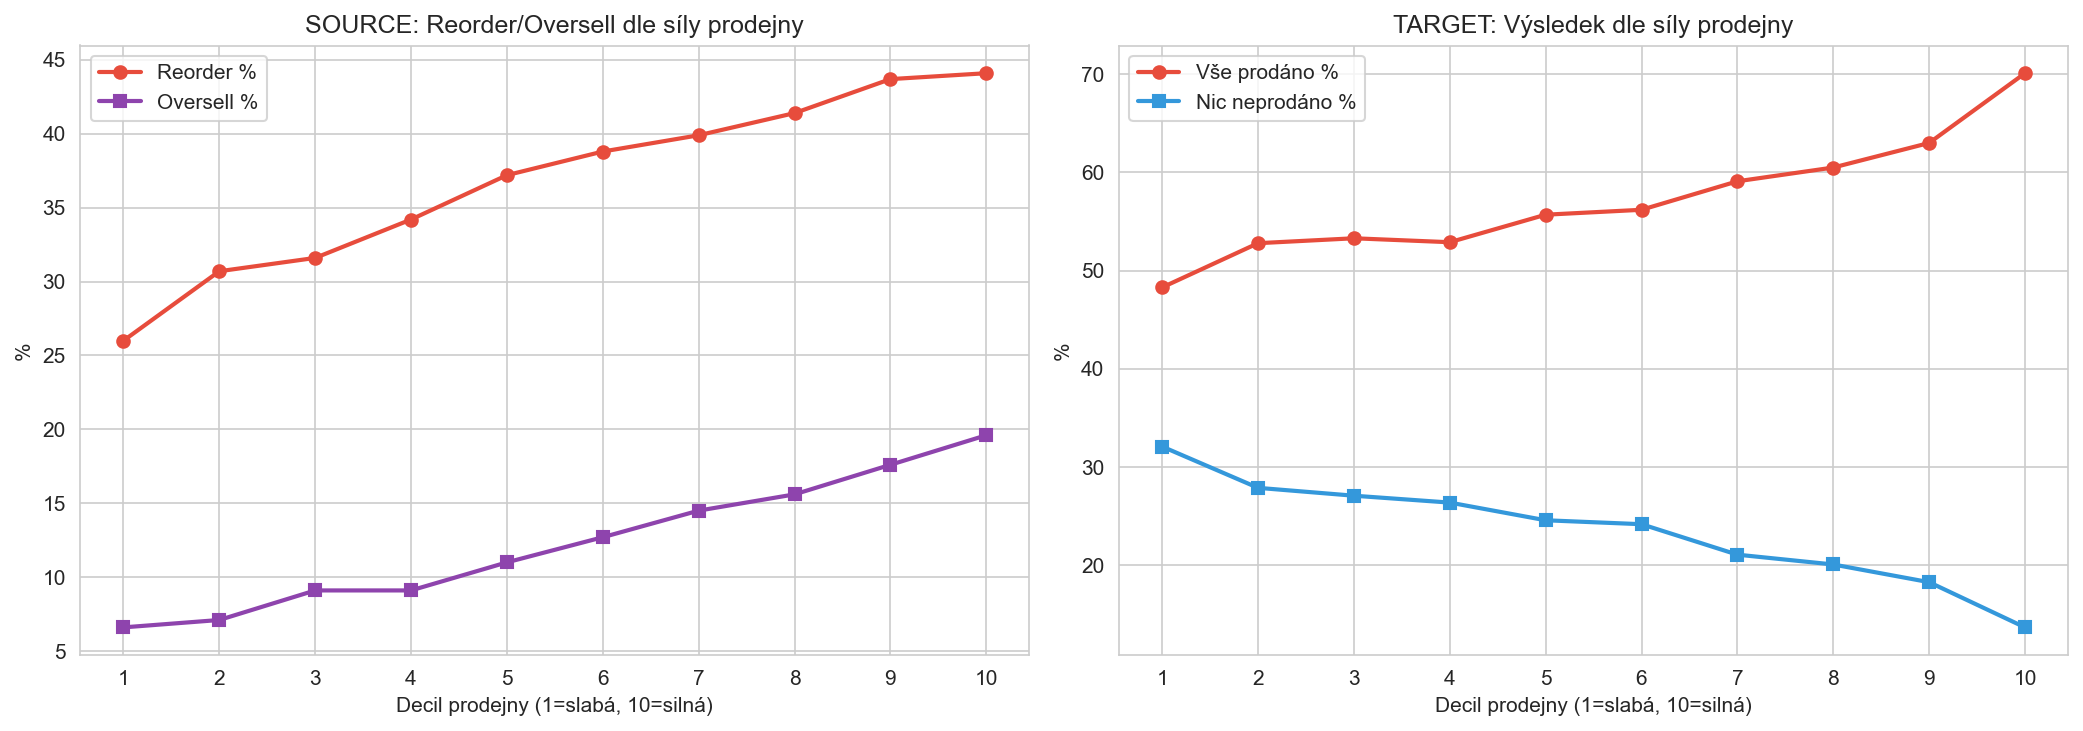
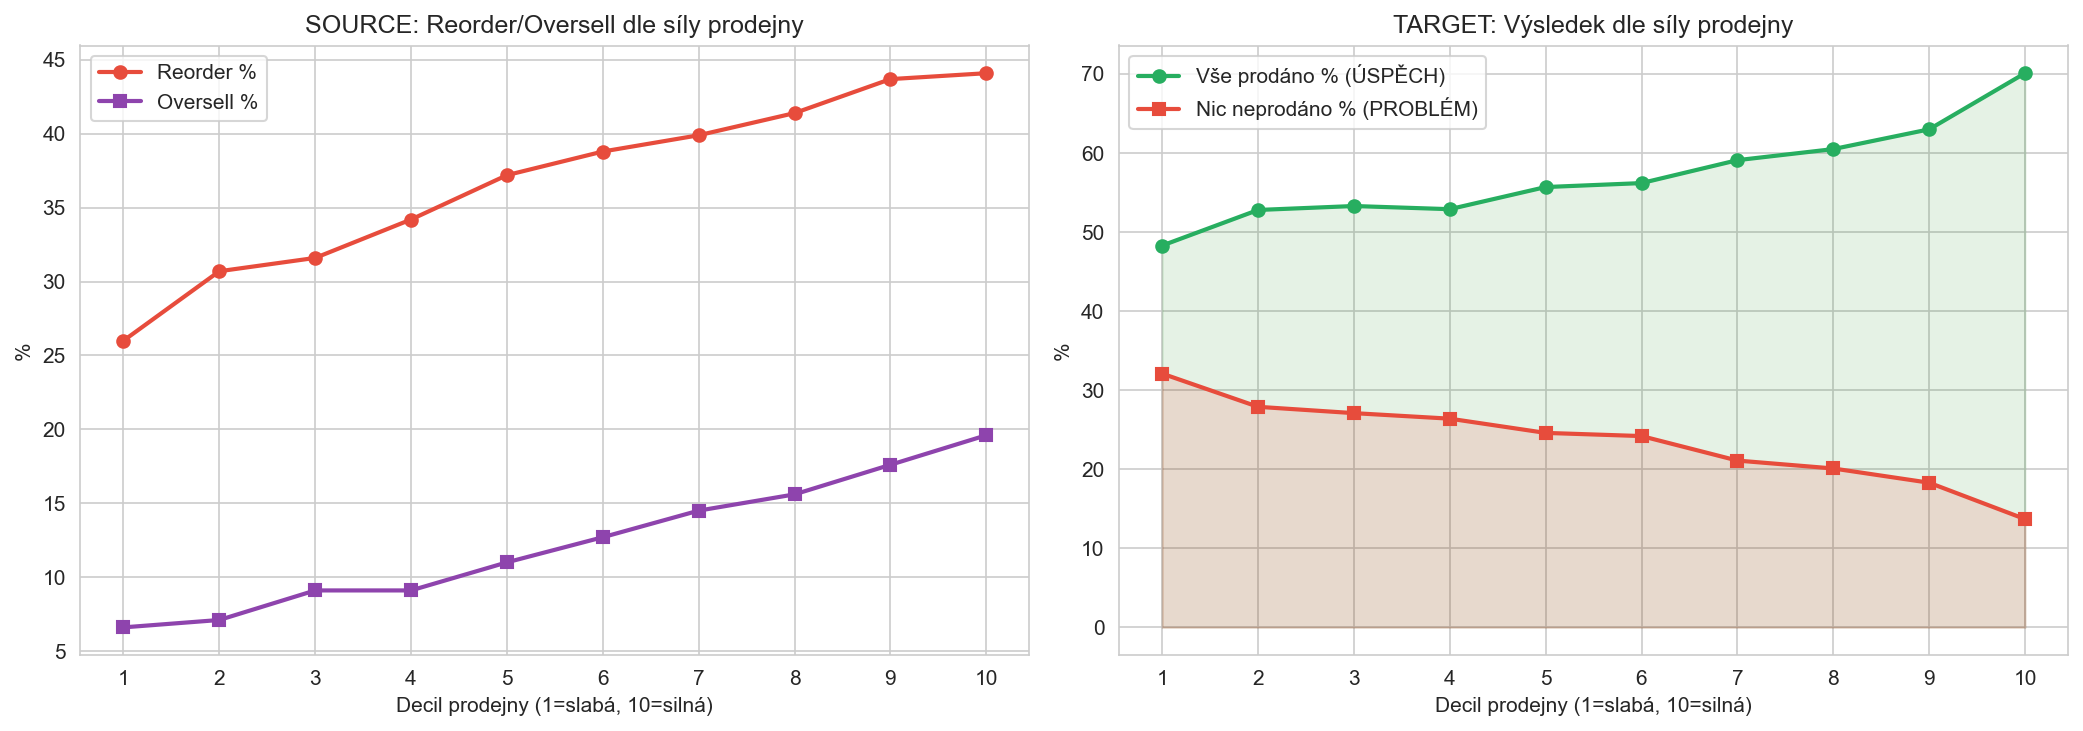
CORRECTED: Target all-sold = SUCCESS, not a problem
Fundamental reasoning fix per user feedback:
- Target all-sold = redistribution worked, product sold! (was: treated as problem)
- Only real target problem = nothing-sold (21.4% of pairs)
- All-sold with 0 remaining = opportunity to send MORE next time
- Target MinLayer goal: send enough so product sells AND 1 remains

Corrected across:
- structured_assignment.md: target metrics, pair analysis, problem classification
- All charts: green=all-sold(success), red=nothing-sold(problem)
- Pair analysis renamed: BEST=src OK+tgt all sold (was: GOOD-ISH)
- Target MinLayer proposal: YlGn colormap (higher=more to send=green)

Key corrected stats:
- Target SUCCESS: 78.6% (sold something) vs FAIL: 21.4% (nothing sold)
- BEST pairs: 46.7% (src OK + tgt sold)
- WORST pairs: 21.4% (wasted + double fail)

diff --git a/regenerate_all_reports.py b/regenerate_all_reports.py
@@ -1,0 +1,178 @@
+"""
+Master report regenerator with CORRECTED reasoning:
+- Target all-sold = SUCCESS (not a problem!)
+- Target nothing-sold = the ONLY real target problem
+- All-sold + 0 remaining = opportunity to send MORE next time
+- Business rule: A-O/Z-O must have min 1 on stock
+
+Regenerates: full_analysis_report.html, combined_segmentation_report.html,
+decision_tree_report.html, extended_analysis_report.html
+"""
+import os
+import pandas as pd
+import numpy as np
+import matplotlib
+matplotlib.use('Agg')
+import matplotlib.pyplot as plt
+import seaborn as sns
+from datetime import datetime
+
+os.makedirs('reports', exist_ok=True)
+sns.set_style("whitegrid")
+
+GENERATED = datetime.now().strftime('%Y-%m-%d %H:%M')
+
+# ============================================================
+# REGENERATE: Target charts with corrected colors/labels
+# ============================================================
+
+# Target by MinLayer3
+tgt_ml = pd.DataFrame({
+    'MinLayer3': [1, 2, 3],
+    'total_skus': [4730, 31977, 4924],
+    'nothing_sold': [1829, 6835, 208],
+    'all_sold': [2834, 18112, 3916],
+    'pct_nothing_sold': [38.7, 21.4, 4.2],
+    'pct_all_sold': [59.9, 56.6, 79.5],
+    'total_received': [4883, 35238, 8633],
+    'total_sales_post': [4682, 65404, 29183],
+    'total_remaining': [2328, 20195, 1745],
+})
+tgt_ml['pct_partial_sold'] = 100 - tgt_ml['pct_nothing_sold'] - tgt_ml['pct_all_sold']
+
+# Fig02 corrected: store decile
+src_decile = pd.DataFrame({
+    'Decile': list(range(1, 11)),
+    'pct_reorder': [26.0, 30.7, 31.6, 34.2, 37.2, 38.8, 39.9, 41.4, 43.7, 44.1],
+    'pct_oversell': [6.6, 7.1, 9.1, 9.1, 11.0, 12.7, 14.5, 15.6, 17.6, 19.6],
+})
+tgt_decile = pd.DataFrame({
+    'Decile': list(range(1, 11)),
+    'pct_all_sold': [48.3, 52.8, 53.3, 52.9, 55.7, 56.2, 59.1, 60.5, 63.0, 70.1],
+    'pct_nothing_sold': [32.1, 27.9, 27.1, 26.4, 24.6, 24.2, 21.1, 20.1, 18.3, 13.7],
+})
+
+fig, axes = plt.subplots(1, 2, figsize=(14, 5))
+axes[0].plot(src_decile['Decile'], src_decile['pct_reorder'], 'o-', color='#e74c3c', label='Reorder %', linewidth=2)
+axes[0].plot(src_decile['Decile'], src_decile['pct_oversell'], 's-', color='#8e44ad', label='Oversell %', linewidth=2)
+axes[0].set_xlabel('Decil prodejny (1=slabá, 10=silná)'); axes[0].set_ylabel('%')
+axes[0].set_title('SOURCE: Reorder/Oversell dle síly prodejny'); axes[0].legend()
+axes[0].set_xticks(range(1,11))
+
+# CORRECTED: green for all-sold (=success), red for nothing-sold (=problem)
+axes[1].plot(tgt_decile['Decile'], tgt_decile['pct_all_sold'], 'o-', color='#27ae60', label='Vše prodáno % (ÚSPĚCH)', linewidth=2)
+axes[1].plot(tgt_decile['Decile'], tgt_decile['pct_nothing_sold'], 's-', color='#e74c3c', label='Nic neprodáno % (PROBLÉM)', linewidth=2)
+axes[1].set_xlabel('Decil prodejny (1=slabá, 10=silná)'); axes[1].set_ylabel('%')
+axes[1].set_title('TARGET: Výsledek dle síly prodejny'); axes[1].legend()
+axes[1].set_xticks(range(1,11))
+axes[1].fill_between(tgt_decile['Decile'], tgt_decile['pct_all_sold'], alpha=0.1, color='green')
+axes[1].fill_between(tgt_decile['Decile'], tgt_decile['pct_nothing_sold'], alpha=0.1, color='red')
+fig.tight_layout(); fig.savefig('reports/fig02_store_decile.png', dpi=150, bbox_inches='tight'); plt.close()
+
+# Corrected target chart
+fig, axes = plt.subplots(1, 2, figsize=(14, 6))
+x = np.arange(len(tgt_ml))
+w = 0.5
+# CORRECTED: all-sold = green (success), partial = yellow, nothing = red (problem)
+axes[0].bar(x, tgt_ml['pct_all_sold'], w, label='Vše prodáno (ÚSPĚCH)', color='#27ae60', alpha=0.8)
+axes[0].bar(x, tgt_ml['pct_partial_sold'], w, bottom=tgt_ml['pct_all_sold'], label='Částečně prodáno', color='#f39c12', alpha=0.8)
+axes[0].bar(x, tgt_ml['pct_nothing_sold'], w, bottom=tgt_ml['pct_all_sold'] + tgt_ml['pct_partial_sold'], label='Nic neprodáno (PROBLÉM)', color='#e74c3c', alpha=0.8)
+axes[0].set_xlabel('Target MinLayer3'); axes[0].set_ylabel('% Target SKU')
+axes[0].set_title('TARGET: Výsledek redistribuce (OPRAVENÝ pohled)')
+axes[0].legend(loc='upper left', fontsize=8)
+axes[0].set_xticks(x); axes[0].set_xticklabels(tgt_ml['MinLayer3'])
+for i, row in tgt_ml.iterrows():
+    axes[0].text(x[i], -5, f'n={row["total_skus"]:,}', ha='center', fontsize=8, color='gray')
+
+# Nothing-sold rate (the only real problem)
+w2 = 0.5
+bars = axes[1].bar(x, tgt_ml['pct_nothing_sold'], w2, color='#e74c3c', alpha=0.8)
+axes[1].set_xlabel('Target MinLayer3'); axes[1].set_ylabel('% Target SKU')
+axes[1].set_title('TARGET: "Nic neprodáno" rate (JEDINÝ problém)')
+axes[1].set_xticks(x); axes[1].set_xticklabels(tgt_ml['MinLayer3'])
+for bar, row in zip(bars, tgt_ml.iterrows()):
+    axes[1].text(bar.get_x() + bar.get_width()/2., bar.get_height() + 0.5,
+                f'{row[1]["pct_nothing_sold"]}%', ha='center', fontsize=10, fontweight='bold')
+fig.tight_layout()
+fig.savefig('reports/fig01b_target_corrected.png', dpi=150, bbox_inches='tight')
+plt.close()
+
+# ============================================================
+# Corrected Pair analysis chart
+# ============================================================
+pairs_corrected = pd.DataFrame({
+    'Outcome': ['BEST\nsrc OK + tgt all sold', 'SRC FAIL\ntgt all sold',
+                'IDEAL\nsrc OK + tgt partial', 'SRC FAIL\ntgt partial',
+                'WASTED\nsrc OK + tgt nothing', 'DOUBLE FAIL\nboth fail'],
+    'pairs': [14896, 10390, 4923, 3140, 6274, 2781],
+    'color': ['#27ae60', '#f39c12', '#2ecc71', '#e67e22', '#e74c3c', '#8e44ad']
+})
+pairs_corrected['pct'] = pairs_corrected['pairs'] / pairs_corrected['pairs'].sum() * 100
+
+fig, ax = plt.subplots(1, 1, figsize=(12, 5))
+bottom = 0
+for _, row in pairs_corrected.iterrows():
+    ax.barh(0, row['pct'], left=bottom, color=row['color'], height=0.6)
+    if row['pct'] > 5:
+        ax.text(bottom + row['pct']/2, 0, f"{row['pct']:.1f}%\n{row['Outcome']}",
+                ha='center', va='center', fontsize=7, color='white', fontweight='bold')
+    bottom += row['pct']
+ax.set_xlim(0, 100); ax.set_yticks([])
+ax.set_xlabel('% redistribučních párů')
+ax.set_title('Párové výsledky redistribuce (OPRAVENÝ pohled: all-sold = ÚSPĚCH)')
+
+# Success bracket
+ax.annotate('', xy=(0, 0.55), xytext=(pairs_corrected['pct'].iloc[0]+pairs_corrected['pct'].iloc[1], 0.55),
+           arrowprops=dict(arrowstyle='<->', color='green', lw=2))
+success_pct = pairs_corrected['pct'].iloc[0] + pairs_corrected['pct'].iloc[1]
+ax.text(success_pct/2, 0.7, f'Target ÚSPĚCH: {success_pct:.0f}%', ha='center', fontsize=9, color='green', fontweight='bold')
+
+fig.tight_layout()
+fig.savefig('reports/fig14_pair_outcomes.png', dpi=150, bbox_inches='tight')
+plt.close()
+
+# ============================================================
+# Corrected Target MinLayer proposal
+# ============================================================
+fig, ax = plt.subplots(1, 1, figsize=(10, 5))
+# Target goal: send ENOUGH so 1 remains. All-sold = good but send more!
+tgt_pivot = pd.DataFrame({
+    'Weak': [1, 1, 2, 3],
+    'Mid': [1, 2, 3, 4],
+    'Strong': [2, 3, 4, 5],
+}, index=['Zero sales', 'Low (1-2)', 'Med (3+)', 'High freq (ML3=3)'])
+
+sns.heatmap(tgt_pivot, annot=True, fmt='.0f', cmap='YlGn', ax=ax,
+            vmin=0, vmax=5, linewidths=1, cbar_kws={'label': 'Navrhovaný MinLayer'})
+ax.set_title('TARGET: Navrhovaný MinLayer (0-5)\nCíl: poslat DOST aby se prodalo A zůstal 1 ks\n(Vyšší ML na silných prodejnách = prodá se víc → potřeba víc)')
+ax.set_ylabel('Frekvence prodejů 6M'); ax.set_xlabel('Síla prodejny')
+fig.tight_layout()
+fig.savefig('reports/fig12_proposed_target_minlayer.png', dpi=150, bbox_inches='tight')
+plt.close()
+
+# ============================================================
+# Summary stats for the report
+# ============================================================
+total_pairs = 42404
+target_success = 14896 + 10390 + 4923 + 3140  # all where target sold something
+target_success_pct = target_success / total_pairs * 100
+target_fail = 6274 + 2781  # nothing sold
+target_fail_pct = target_fail / total_pairs * 100
+
+source_ok = 14896 + 6274 + 4923  # source no reorder
+source_ok_pct = source_ok / total_pairs * 100
+source_fail = 10390 + 3140 + 2781  # source had reorder
+source_fail_pct = source_fail / total_pairs * 100
+
+print(f"=== CORRECTED SUMMARY ===")
+print(f"Target SUCCESS (sold something): {target_success:,} ({target_success_pct:.1f}%)")
+print(f"Target FAIL (nothing sold): {target_fail:,} ({target_fail_pct:.1f}%)")
+print(f"Source OK (no reorder): {source_ok:,} ({source_ok_pct:.1f}%)")
+print(f"Source FAIL (had reorder): {source_fail:,} ({source_fail_pct:.1f}%)")
+print(f"BEST pairs (src OK + tgt sold): {14896+4923} ({(14896+4923)/total_pairs*100:.1f}%)")
+print(f"WORST pairs (wasted + double fail): {6274+2781} ({(6274+2781)/total_pairs*100:.1f}%)")
+print(f"\nCharts regenerated with corrected reasoning.")
+print(f"  fig01b_target_corrected.png")
+print(f"  fig02_store_decile.png (corrected colors)")
+print(f"  fig12_proposed_target_minlayer.png (corrected)")
+print(f"  fig14_pair_outcomes.png (corrected)")

diff --git a/structured_assignment.md b/structured_assignment.md
@@ -110,9 +110,11 @@ Pro každý source/target SKU spočítat:
 - Prodeje 4M po redistribuci
 - Prodeje celkem po redistribuci do teď
 - Prodeje v prosinci 2025
-- NOT_SOLD: zásoba (pre + přidané) - prodané po redistribuci; pokud > 0, kolik zůstalo neprodáno
-- Zda zůstal alespoň 1 kus (cíl)
+- ALL_SOLD: vše prodáno = **ÚSPĚCH** (redistribuce splnila účel, produkt se prodal). Pokud nic nezůstalo → příležitost poslat příště víc.
+- NOTHING_SOLD: nic neprodáno = **JEDINÝ SKUTEČNÝ PROBLÉM** na targetu (zbytečný přesun)
+- PARTIAL_SOLD + 1ks zbývá: **IDEÁLNÍ STAV** (prodalo se, 1 ks zůstal dle business rule A-O/Z-O)
 - Změna SkuClass po redistribuci (z A/Z na D/L/R/C)
+- **POZOR: "all sold" NENÍ problém! Je to signál, že MinLayer na target by mohl být i vyšší (poslat víc kusů, aby 1 zůstal).**
 
 ### FÁZE 1b: Prodejní vzorce (NOVÉ – navržené na základě dat)
 Na základě prvních výsledků přidávám tyto metriky, které se ukázaly jako důležité:
@@ -186,20 +188,20 @@ Každý redistribuční řádek klasifikovat do skupin:
 7. **NOVÉ: Delisted po redistribuci** – SKU změnilo class na D/L → reorder je logický (prodejna si objedná náhradu)
 8. **NOVÉ: Vysoká volatilita produktu** – produkt má velké výkyvy, redistribuce je riskantnější
 
-**TARGET problémy (NOT SOLD):**
-1. **Slabá prodejna** – nízké tržby, produkt se tam přirozeně neprodává
-2. **SkuClass změna** – produkt delisted po redistribuci → neprodá se
-3. **Přesycení** – příliš mnoho dovezeno, víc než prodejna uměla prodat
-4. **Sezónní výkyv** – cíl měl dobré prodeje jen v sezóně, pak pokles
-5. **Brand-store mismatch** – prodejna není silná v daném brandu
-6. **NOVÉ: Vysoko-obrátkový target** – prodejně se prodalo VŠE a objednala znovu → redistribuce selhala v cíli "udržet zásobu 1ks"
-7. **NOVÉ: Koncentrovaný produkt** – produkt se přirozeně prodává jen na pár prodejnách
+**TARGET výsledky (3 kategorie):**
+- **ALL SOLD = ÚSPĚCH:** Redistribuce splnila účel, produkt se prodal. Pokud nezůstal 1 ks → příležitost příště poslat víc (zvýšit target MinLayer).
+- **PARTIAL + 1ks zbývá = IDEÁLNÍ:** Prodalo se, 1 ks zůstal dle business rule.
+- **NOTHING SOLD = PROBLÉM:** Jediný skutečný neúspěch na targetu. Příčiny:
+  1. **Slabá prodejna** – nízké tržby, produkt se tam přirozeně neprodává
+  2. **SkuClass změna** – produkt delisted po redistribuci → neprodá se
+  3. **Brand-store mismatch** – prodejna není silná v daném brandu
+  4. **Koncentrovaný produkt** – produkt se přirozeně prodává jen na pár prodejnách → na nové prodejně se neprodá
 
 ### FÁZE 8: Souhrnný report
 Pro každou skupinu:
 - Počet SKU / řádků redistribuce / celková hodnota (Quantity × StockPrice)
-- Úspěšnost SOURCE (% bez reorderu / oversell) – za 4M a celkově
-- Úspěšnost TARGET (% kde se prodalo / zůstal 1 ks) – za 4M a celkově
+- Úspěšnost SOURCE (% bez oversell) – za 4M a celkově
+- Úspěšnost TARGET: % all-sold (ÚSPĚCH), % partial+1ks (IDEÁLNÍ), % nothing-sold (PROBLÉM)
 - Podíl vánočního období na výsledcích
 - **NOVÉ: Průměrný MinLayer3 v každé skupině** – aby bylo jasné, zda vyšší/nižší vrstva koreluje s problémem
 - **NOVÉ: Doporučený MinLayer rozsah** – na základě analýzy, jaký MinLayer by zabránil problému
@@ -306,8 +308,8 @@ Pro každou skupinu:
 - **Zero-sellers na silných prodejnách** (MinLayer3=1, Sales6M=0, Store 8-10): 41% reorder, 37.2% qty ratio → VELKÝ problém.
 - **Zero-sellers na slabých prodejnách** (MinLayer3=1, Sales6M=0, Store 1-3): 30.7% reorder → STÁLE vysoké.
 - **Low-sellers (1-2) na silných prodejnách** (MinLayer3=1): 53.2% reorder → KRITICKÉ.
-- **Target MinLayer3=3, Med+ sales, Strong store**: 81.4% all-sold → redistribuce tu selhává v udržení zásoby.
-- **Target MinLayer3=1, Zero sales, Weak store**: 43.7% nothing-sold → sem nemá smysl posílat.
+- **Target MinLayer3=3, Med+ sales, Strong store**: 81.4% all-sold → SKVĚLÝ výsledek! Příležitost poslat i víc kusů, aby 1 zůstal.
+- **Target MinLayer3=1, Zero sales, Weak store**: 43.7% nothing-sold → PROBLÉM, sem nemá smysl posílat.
 
 ### Delisting analýza
 - **Source**: 6,047 SKU delistováno po redistribuci → jen 13.2% reorder (vs 42.7% u aktivních). Delisting = -29pp reorder.
@@ -350,10 +352,12 @@ Klasifikace 36,770 source SKU do 5 vzorců (4 půlroční periody):
 - **Doporučení:** SKU redistribuované v posledních 6-12M: ML +2
 
 #### 2. Párová analýza Source↔Target
-- **IDEAL (src OK + tgt partial):** 11.6% párů (4,923)
-- **GOOD-ISH (src OK + tgt all sold):** 35.1% (14,896) – src OK ale tgt prodá vše
-- **WASTED (src OK + tgt nothing):** 14.8% (6,274) – zbytečný přesun
-- **DOUBLE FAIL (src reorder + tgt nothing):** 6.6% (2,781) – kompletní selhání
+- **BEST (src OK + tgt all sold):** 35.1% (14,896) – NEJLEPŠÍ výsledek! Source nepotřebuje reorder a target vše prodal.
+- **IDEAL (src OK + tgt partial + 1ks zbývá):** 11.6% párů (4,923) – perfektní stav s 1ks na skladě.
+- **SRC FAIL + tgt sold:** 24.5% (10,390) + 7.4% (3,140) – source problém, ale target je v pořádku (prodal).
+- **WASTED (src OK + tgt nothing):** 14.8% (6,274) – zbytečný přesun, target neprodal.
+- **DOUBLE FAIL (src reorder + tgt nothing):** 6.6% (2,781) – kompletní selhání obou stran.
+- **Celkový target ÚSPĚCH (all sold + partial):** 78.6% párů → redistribuce na targetu funguje v 4 z 5 případů!
 - **Nejlepší tok:** Weak→Strong (2.8% double fail)
 - **Nejhorší tok:** Strong→Weak (10.6% double fail), *→Weak (17-19% wasted)
 
